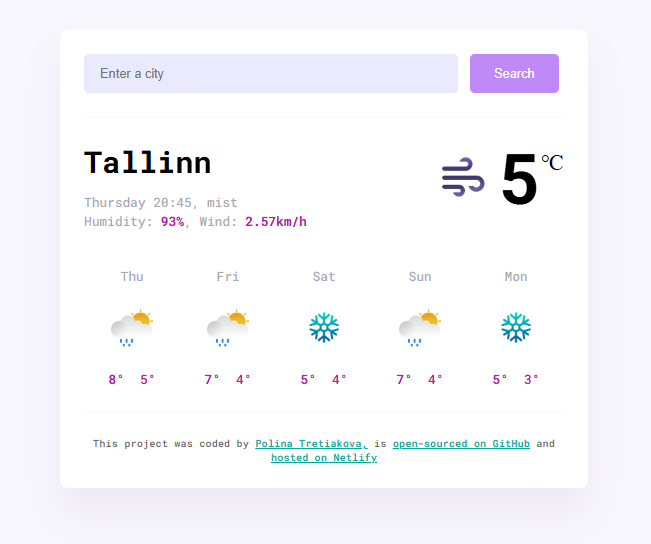
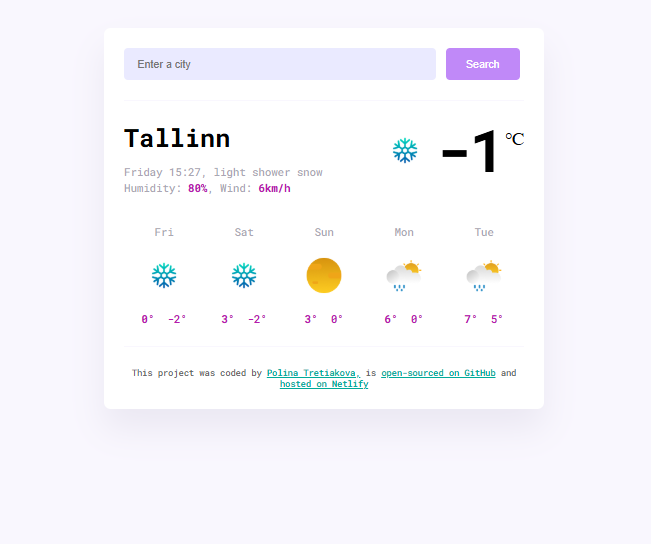
Added new pictures and made some changes in contact section

diff --git a/work.html b/work.html
@@ -118,11 +118,15 @@
 
           <div class="col-md-6 mb-4">
             <img
-              src="images/translation.png"
+              src="images/react-weather-app.png"
               alt="Translation App preview"
-              class="img-fluid mb-3"
+              class="img-fluid mb-3 rounded"
             />
-            <h3 class="text-center m-0">Translation App</h3>
+            <h3 class="text-center m-0">
+              <a href="https://cheery-babka-396023.netlify.app/" target="_blank"
+                >React Weather App</a
+              >
+            </h3>
             <p class="text-center text-muted">
               Was built with HTML, CSS and React
             </p>
@@ -158,7 +162,7 @@
 
       <div class="social-links d-flex justify-content-center">
         <a
-          href="https://linkedin.com/polinatretiakova"
+          href="https://www.linkedin.com/in/polina-tretiakova-838770250"
           target="_blank"
           title="LinkedIn Profile"
         >
@@ -170,13 +174,6 @@
           title="GitHub Profile"
         >
           <i class="fa-brands fa-square-github"></i>
-        </a>
-        <a
-          href="https://instagram.com/PollyT249"
-          target="_blank"
-          title="Instagram Profile"
-        >
-          <i class="fa-brands fa-square-instagram"></i>
         </a>
       </div>
       <p class="text-center text-muted mt-5">

diff --git a/contact.html b/contact.html
@@ -74,14 +74,9 @@
 
         <h3>LinkedIn</h3>
         <p>
-          <a href="https://www.linkedin.com" target="_blank"
-            >polinatretiakova</a
-          >
-        </p>
-
-        <h3>Instagram</h3>
-        <p>
-          <a href="https://www.instagram.com" target="_blank"
+          <a
+            href="https://www.linkedin.com/in/polina-tretiakova-838770250"
+            target="_blank"
             >polinatretiakova</a
           >
         </p>
@@ -115,7 +110,7 @@
 
       <div class="social-links d-flex justify-content-center">
         <a
-          href="https://linkedin.com/polinatretiakova"
+          href="https://www.linkedin.com/in/polina-tretiakova-838770250"
           target="_blank"
           title="LinkedIn Profile"
         >
@@ -127,13 +122,6 @@
           title="GitHub Profile"
         >
           <i class="fa-brands fa-square-github"></i>
-        </a>
-        <a
-          href="https://instagram.com/PollyT249"
-          target="_blank"
-          title="Instagram Profile"
-        >
-          <i class="fa-brands fa-square-instagram"></i>
         </a>
       </div>
       <p class="text-center text-muted mt-5">

diff --git a/index.html b/index.html
@@ -139,7 +139,7 @@
 
         <div class="col">
           <div class="project-description">
-            <h2 class="mb-5">World Clock Project</h2>
+            <h2 class="mb-5">Clock Project</h2>
             <p class="mb-5 text-muted">
               I immersed myself in JavaScript development in SheCodes Plus
               Add-on. I used my knowledge to build a working World Clock Project
@@ -178,7 +178,7 @@
 
         <div class="social-links d-flex justify-content-center">
           <a
-            href="https://linkedin.com/polinatretiakova"
+            href="https://www.linkedin.com/in/polina-tretiakova-838770250"
             target="_blank"
             title="LinkedIn Profile"
           >
@@ -190,13 +190,6 @@
             title="GitHub Profile"
           >
             <i class="fa-brands fa-square-github"></i>
-          </a>
-          <a
-            href="https://instagram.com/PollyT249"
-            target="_blank"
-            title="Instagram Profile"
-          >
-            <i class="fa-brands fa-square-instagram"></i>
           </a>
         </div>
         <p class="text-center text-muted mt-5">

diff --git a/about.html b/about.html
@@ -114,7 +114,7 @@
 
       <div class="social-links d-flex justify-content-center">
         <a
-          href="https://linkedin.com/polinatretiakova"
+          href="https://www.linkedin.com/in/polina-tretiakova-838770250"
           target="_blank"
           title="LinkedIn Profile"
         >
@@ -126,13 +126,6 @@
           title="GitHub Profile"
         >
           <i class="fa-brands fa-square-github"></i>
-        </a>
-        <a
-          href="https://instagram.com/PollyT249"
-          target="_blank"
-          title="Instagram Profile"
-        >
-          <i class="fa-brands fa-square-instagram"></i>
         </a>
       </div>
       <p class="text-center text-muted mt-5">
